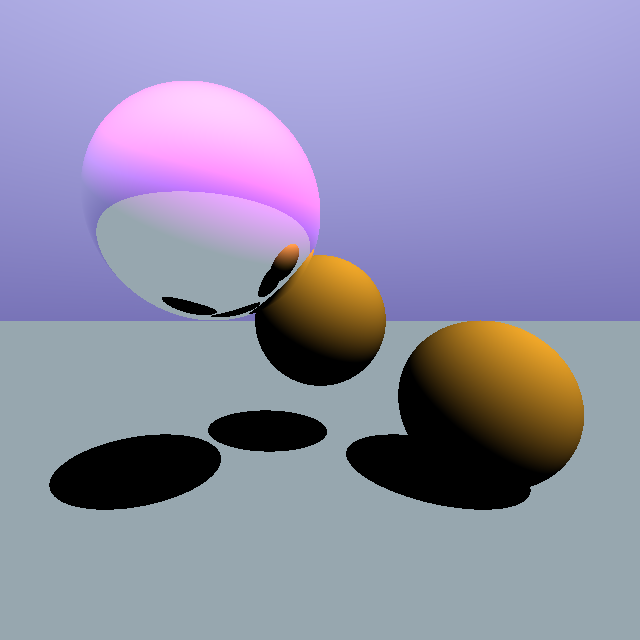
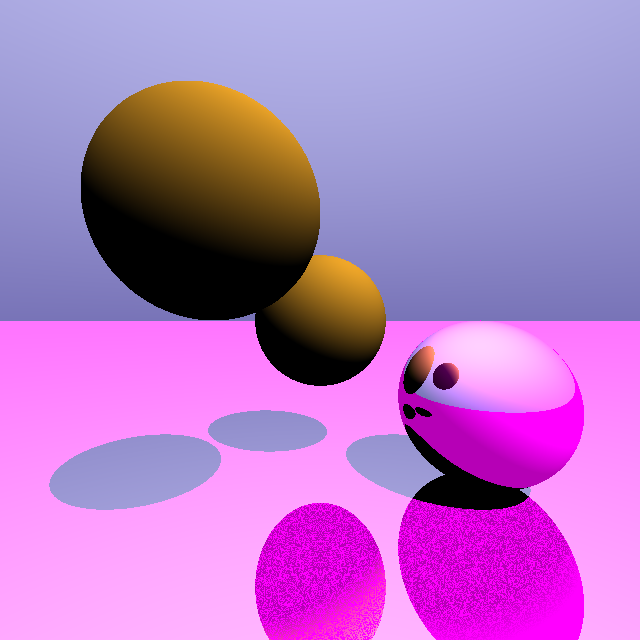
add multiple bounces

diff --git a/RayTracer.java b/RayTracer.java
@@ -17,6 +17,7 @@ public class RayTracer {
     Material mat3 = new Material(new Color(0xFFDF00DF), 0.5f);
     Color ambientLighting = Color.BLACK;
     float lightIntesity = 1.0f;
+    int maxBounces = 1;
 
     //float strongest = 0f;
 
@@ -35,9 +36,9 @@ public class RayTracer {
 
         Vector<Drawable> objects = new Vector<>();
         Sphere obj1 = new Sphere(new Vector3(0, 0, 5), 1, mat1);
-        Sphere obj2 = new Sphere(new Vector3(2, -1, 4), 1.0, mat1);
-        Sphere obj3 = new Sphere(new Vector3(-1, 1, 3), 1.0, mat3);
-        Plane floor = new Plane(new Vector3(0, -2.0, 0), new Vector3(0, 1.0, 0), 2, mat2);
+        Sphere obj2 = new Sphere(new Vector3(2, -1, 4), 1.0, mat3);
+        Sphere obj3 = new Sphere(new Vector3(-1, 1, 3), 1.0, mat1);
+        Plane floor = new Plane(new Vector3(0, -2.0, 0), new Vector3(0, 1.0, 0), 2, mat3);
 
         objects.add(obj1);
         objects.add(obj2);
@@ -140,87 +141,58 @@ public class RayTracer {
                     ray = new Ray(start, new Vector3(0, 0, 1));
                 }
                 else{
-                    
                     ray = new Ray(cam.pos, dir);
                 }
 
                 //---------------SHOOTY PART--------------------
                 Drawable closestObjAddress[] = { null }; //janky workaround to do C like pointer stuff but with single element arrays
+                //init a few things
+                float closestDist;
+                Drawable closestObj;
 
-                float closestDist = rayEach(objects, ray, closestObjAddress); 
-                Drawable closestObj = closestObjAddress[0];
                 //----------------------------------------------------------- repeat this for bouncing
-                if(closestDist <= 0){ //hit sky
-                    float t = ((float) ray.dir.y + 1.0f)*0.5f;
-                    //System.out.println(t);
-                    finalColor = HDRColor.lerpColors(skybottomColor, skytopColor, t);
-                }
-                else{
-                    Vector3 end = cam.pos.add(ray.pointAt(closestDist));
-                    Vector3 normal = closestObj.getNormal(end);
-                    boolean blocked = false;
-                    Ray endRay = new Ray(end, directionalLight.inverted());
-                    for (Drawable obj : objects) {
-                        if(obj != closestObj){ //dont check self, checking self fucks shit up cause imprecision
-                            blocked = obj.hitSimple(endRay);
-                            if(blocked){
-                                finalColor = new HDRColor(0, 0, 0);
-                                break;
-                            }
-                        }
-                        
+                for (int k = 0; k <= maxBounces; k++) {
+                    closestDist = rayEach(objects, ray, closestObjAddress); 
+                    closestObj = closestObjAddress[0];
+
+                    if(closestDist <= 0){ //hit sky
+                        float t = ((float) ray.dir.y + 1.0f)*0.5f;
+                        //System.out.println(t);
+                        finalColor = finalColor.add(HDRColor.lerpColors(skybottomColor, skytopColor, t));
+                        break;
                     }
-                    if(!blocked){
-                        //Vector3 normal = closestObj.getNormal(end); //ignore warning, closestObj gets set in rayEach
-                        float lightStrenght = (float) normal.dot(directionalLight.inverted());
-                        HDRColor col = closestObj.getMaterial().getColor();
-                        if(lightStrenght < 0.0f){
-                            lightStrenght = 0f;
-                        }
-                        col = col.multiply(lightStrenght*lightIntesity);
-
-                        finalColor = col;
-                    }
-
-                    if(closestObj.getMaterial().getRoughness() < 0.6f){ //hardcoded second bounce
-                        //ray reflection: r = d - 2*(d,n)*n
-                        dir = dir.sub(normal.mult(2 * dir.dot(normal)));
-                        ray = new Ray(end, dir.normalized());
-
-                        closestDist = rayEach(objects, ray, closestObjAddress); 
-                        closestObj = closestObjAddress[0];
-
-                        if(closestDist <= 0){ //hit sky
-                            float t = ((float) ray.dir.y + 1.0f)*0.5f;
-                            //System.out.println(t);
-                            finalColor = finalColor.add(HDRColor.lerpColors(skybottomColor, skytopColor, t));
-                        }
-                        else{
-                            end = cam.pos.add(ray.pointAt(closestDist));
-                            blocked = false;
-                            endRay = new Ray(end, directionalLight.inverted());
-                            for (Drawable obj : objects) {
-                                if(obj != closestObj){ //dont check self, checking self fucks shit up cause imprecision
-                                    blocked = obj.hitSimple(endRay);
-                                    if(blocked){
-                                        //finalColor = finalColor.add(new HDRColor(0, 0, 0));
-                                        break;
-                                    }
+                    else{
+                        Vector3 end = cam.pos.add(ray.pointAt(closestDist));
+                        Vector3 normal = closestObj.getNormal(end);
+                        boolean blocked = false;
+                        Ray endRay = new Ray(end, directionalLight.inverted());
+                        for (Drawable obj : objects) {
+                            if(obj != closestObj){ //dont check self, checking self fucks shit up cause imprecision
+                                blocked = obj.hitSimple(endRay);
+                                if(blocked){
+                                    //finalColor = finalColor.add(new HDRColor(0, 0, 0)); //redundant because yea
+                                    break;
                                 }
-                                
-                            }
-                            if(!blocked){
-                                normal = closestObj.getNormal(end); //ignore warning, closestObj gets set in rayEach
-                                float lightStrenght = (float) normal.dot(directionalLight.inverted());
-                                HDRColor col = closestObj.getMaterial().getColor();
-                                if(lightStrenght < 0.0f){
-                                    lightStrenght = 0f;
-                                }
-                                col = col.multiply(lightStrenght*lightIntesity);
-        
-                                finalColor = finalColor.add(col);
                             }
                         }
+                        if(!blocked){
+                            //normal = closestObj.getNormal(end); //ignore warning, closestObj gets set in rayEach
+                            float lightStrenght = (float) normal.dot(directionalLight.inverted());
+                            HDRColor col = closestObj.getMaterial().getColor();
+                            if(lightStrenght < 0.0f){
+                                lightStrenght = 0f;
+                            }
+                            col = col.multiply(lightStrenght*lightIntesity);
+    
+                            finalColor = finalColor.add(col);
+                        }
+                        if(closestObj.getMaterial().getRoughness() < 0.6f){ //hardcoded second bounce
+                            //ray reflection: r = d - 2*(d,n)*n
+                            dir = dir.sub(normal.mult(2 * dir.dot(normal)));
+                            ray = new Ray(end, dir.normalized());
+                            //create new ray and start again
+                        } 
+                        else {break;} //no more boing boing :(
                     }
                 }
                 cam.img.setRGB(i, j, HDRColor.hdrToSdr(finalColor.multiply(1.0f)).getRGB());
